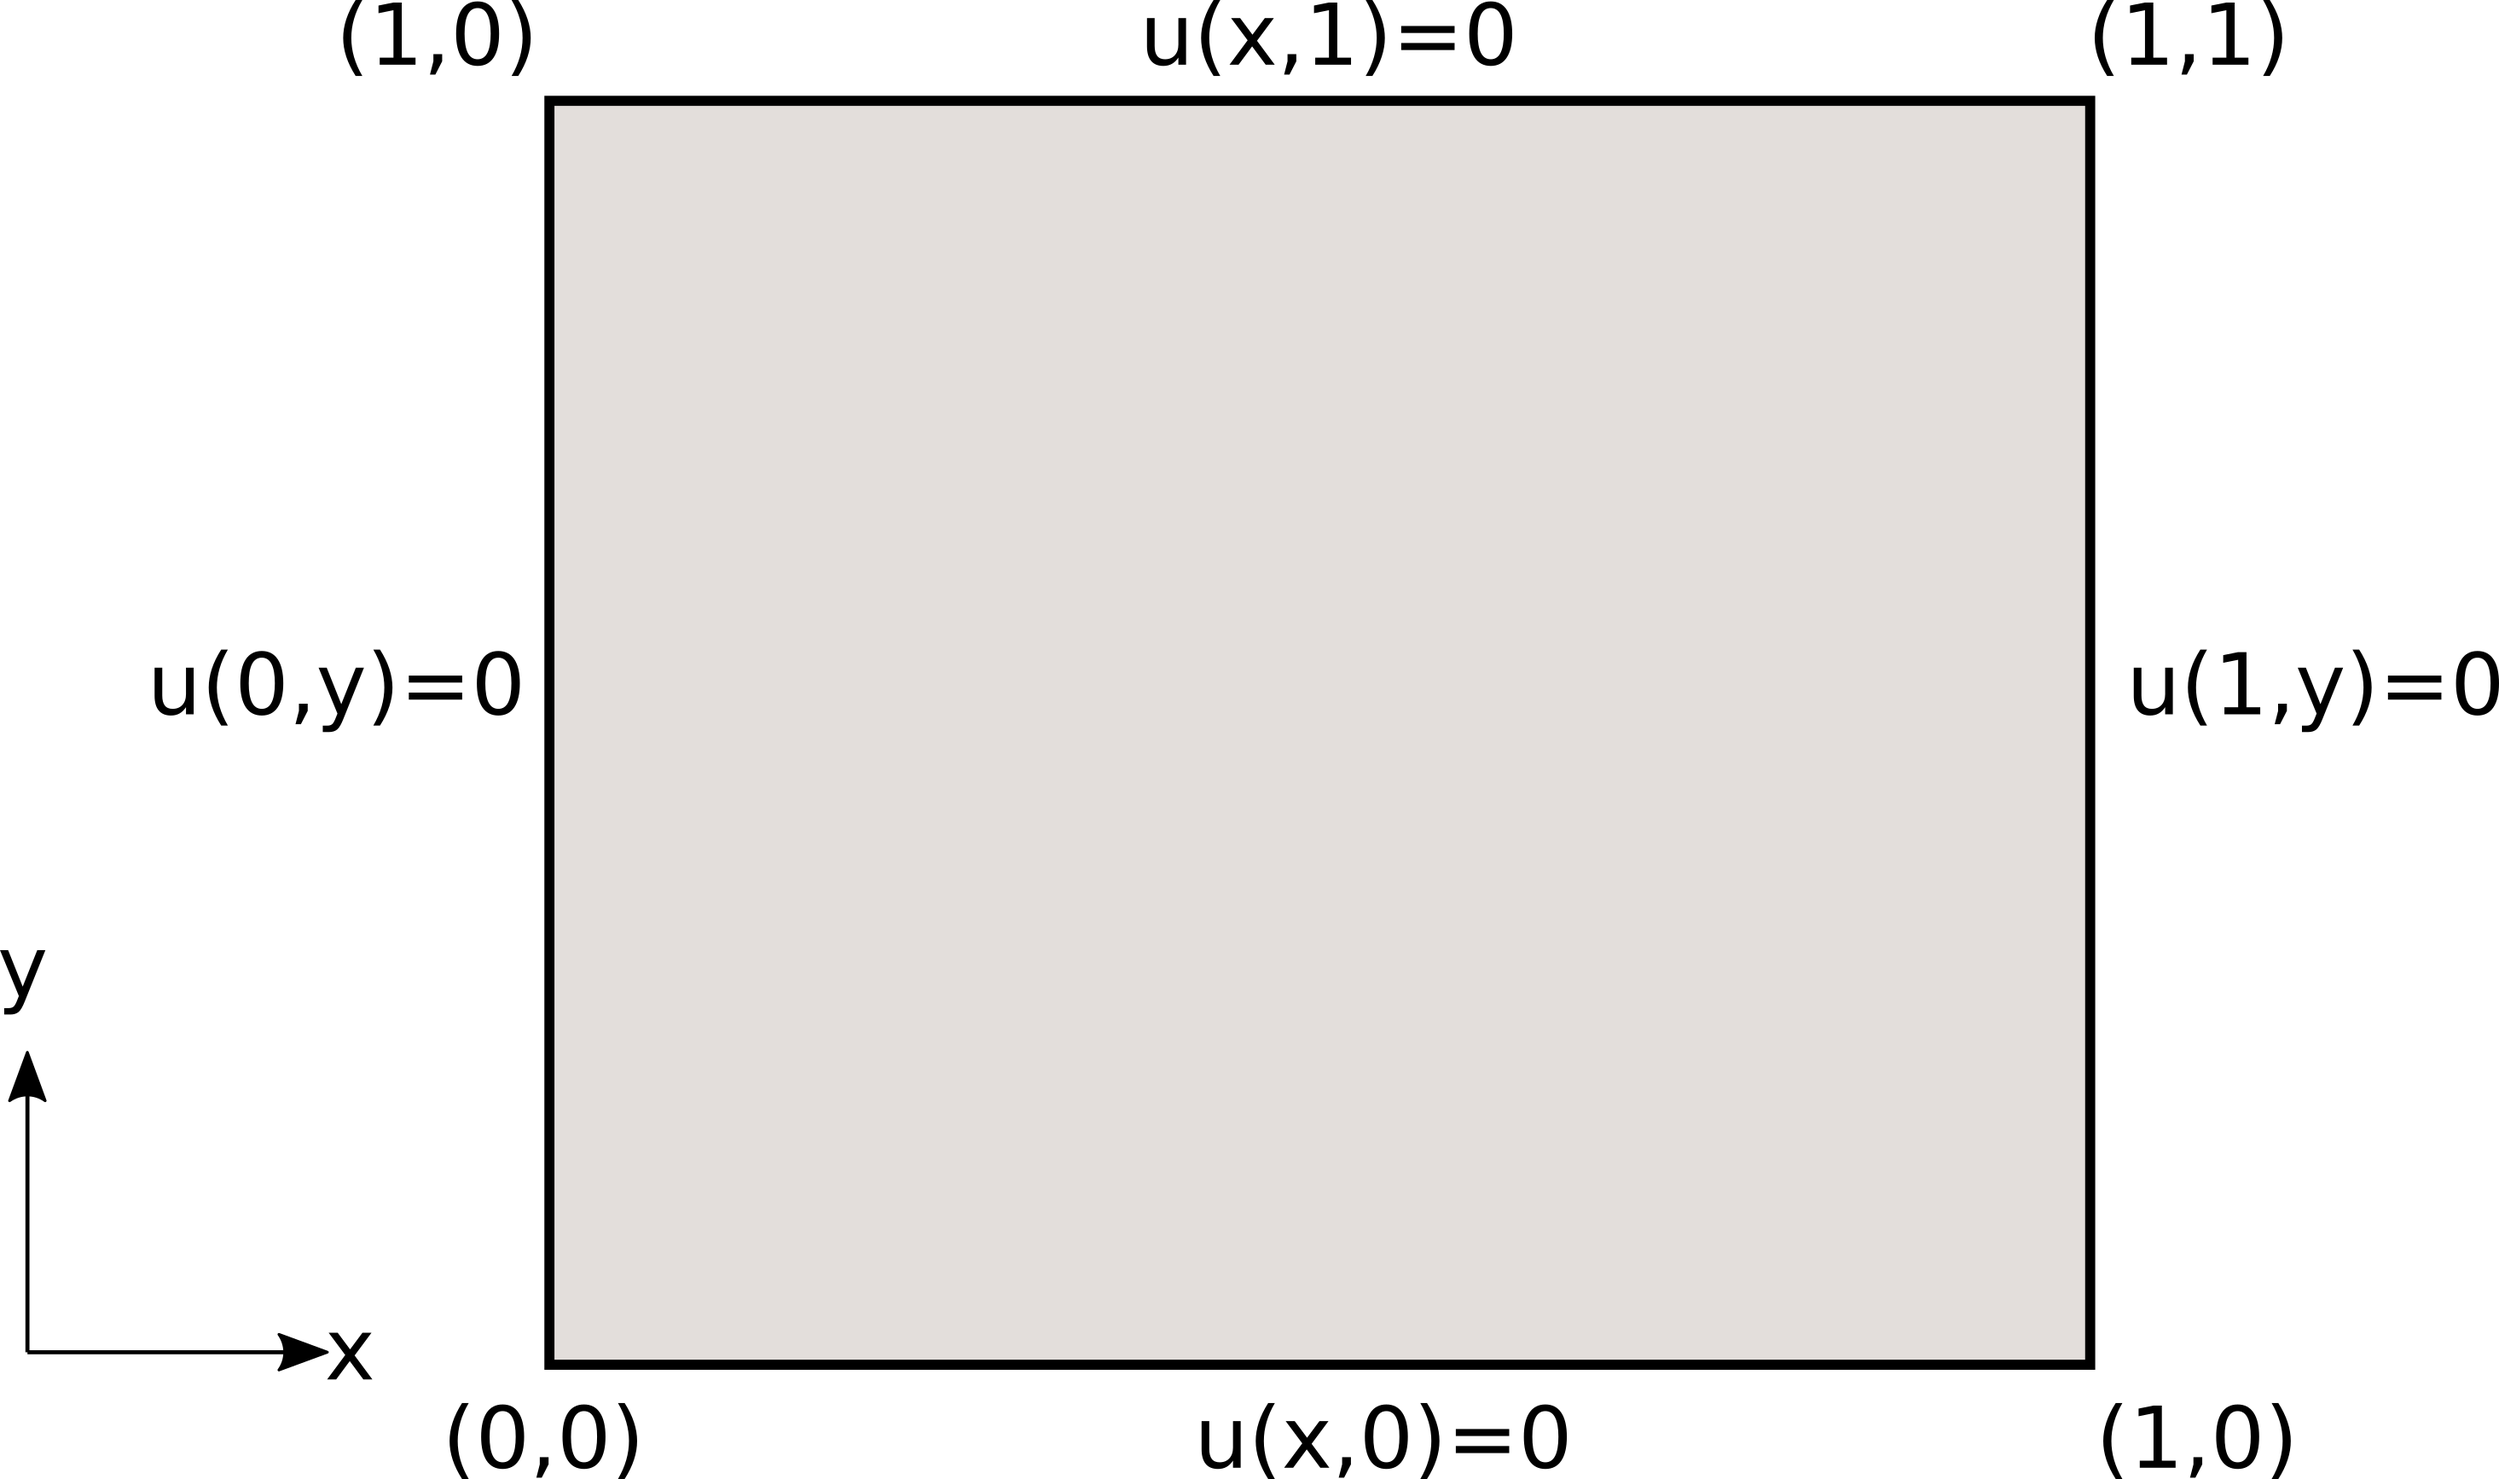
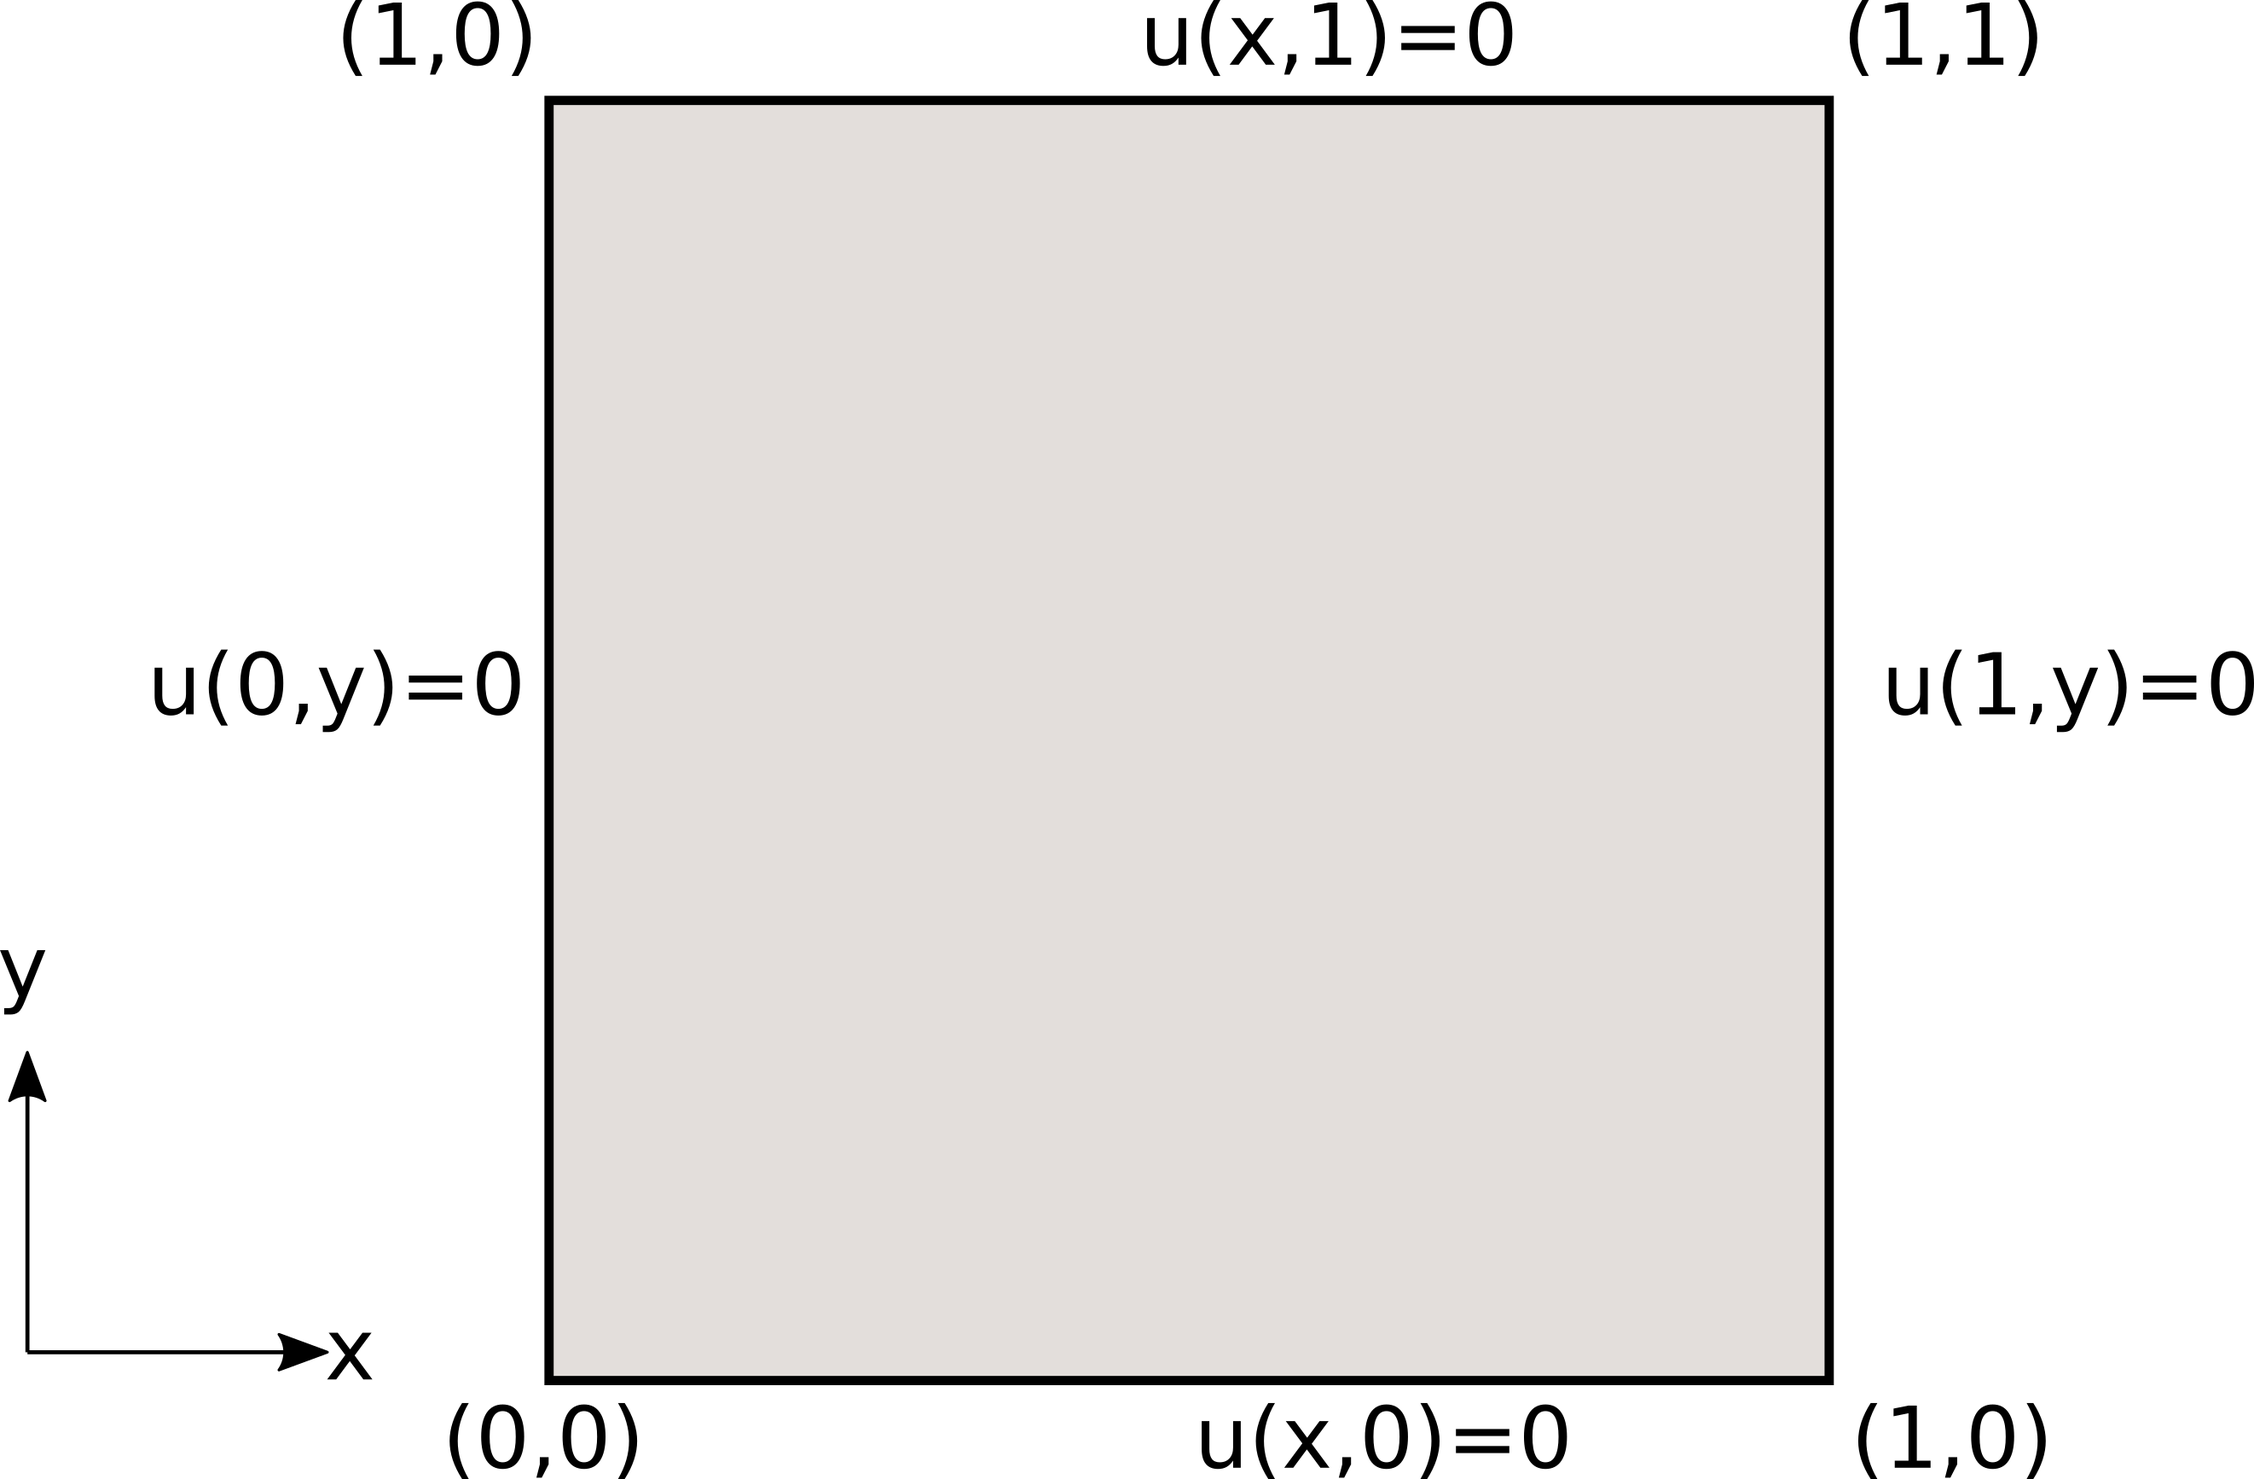
Rupa slika

diff --git a/akustika/3-rupa.rst b/akustika/3-rupa.rst
@@ -10,7 +10,14 @@
 .. math::
     -\frac{\partial^2 u}{\partial x^2} - \frac{\partial^2 u}{\partial y^2} - k_0^2 u = f, \quad \text{на } \Omega
 
-где је члан који специфицира извор :math:`f(x,y)=k_0^2 \sin(k_0x) \sin(k_0 y)`. 
+где је члан који специфицира извор :math:`f(x,y)=k_0^2 \sin(k_0x) \sin(k_0 y)`. Облик домена може се видети на :numref:`akustika-rupa`.
+
+.. _akustika-rupa:
+
+.. figure:: akustika2.png
+    :width: 60%
+
+    Поставка проблема и гранични услови.
 
 Постоји егзактно решење овог проблема и оно гласи:
 
